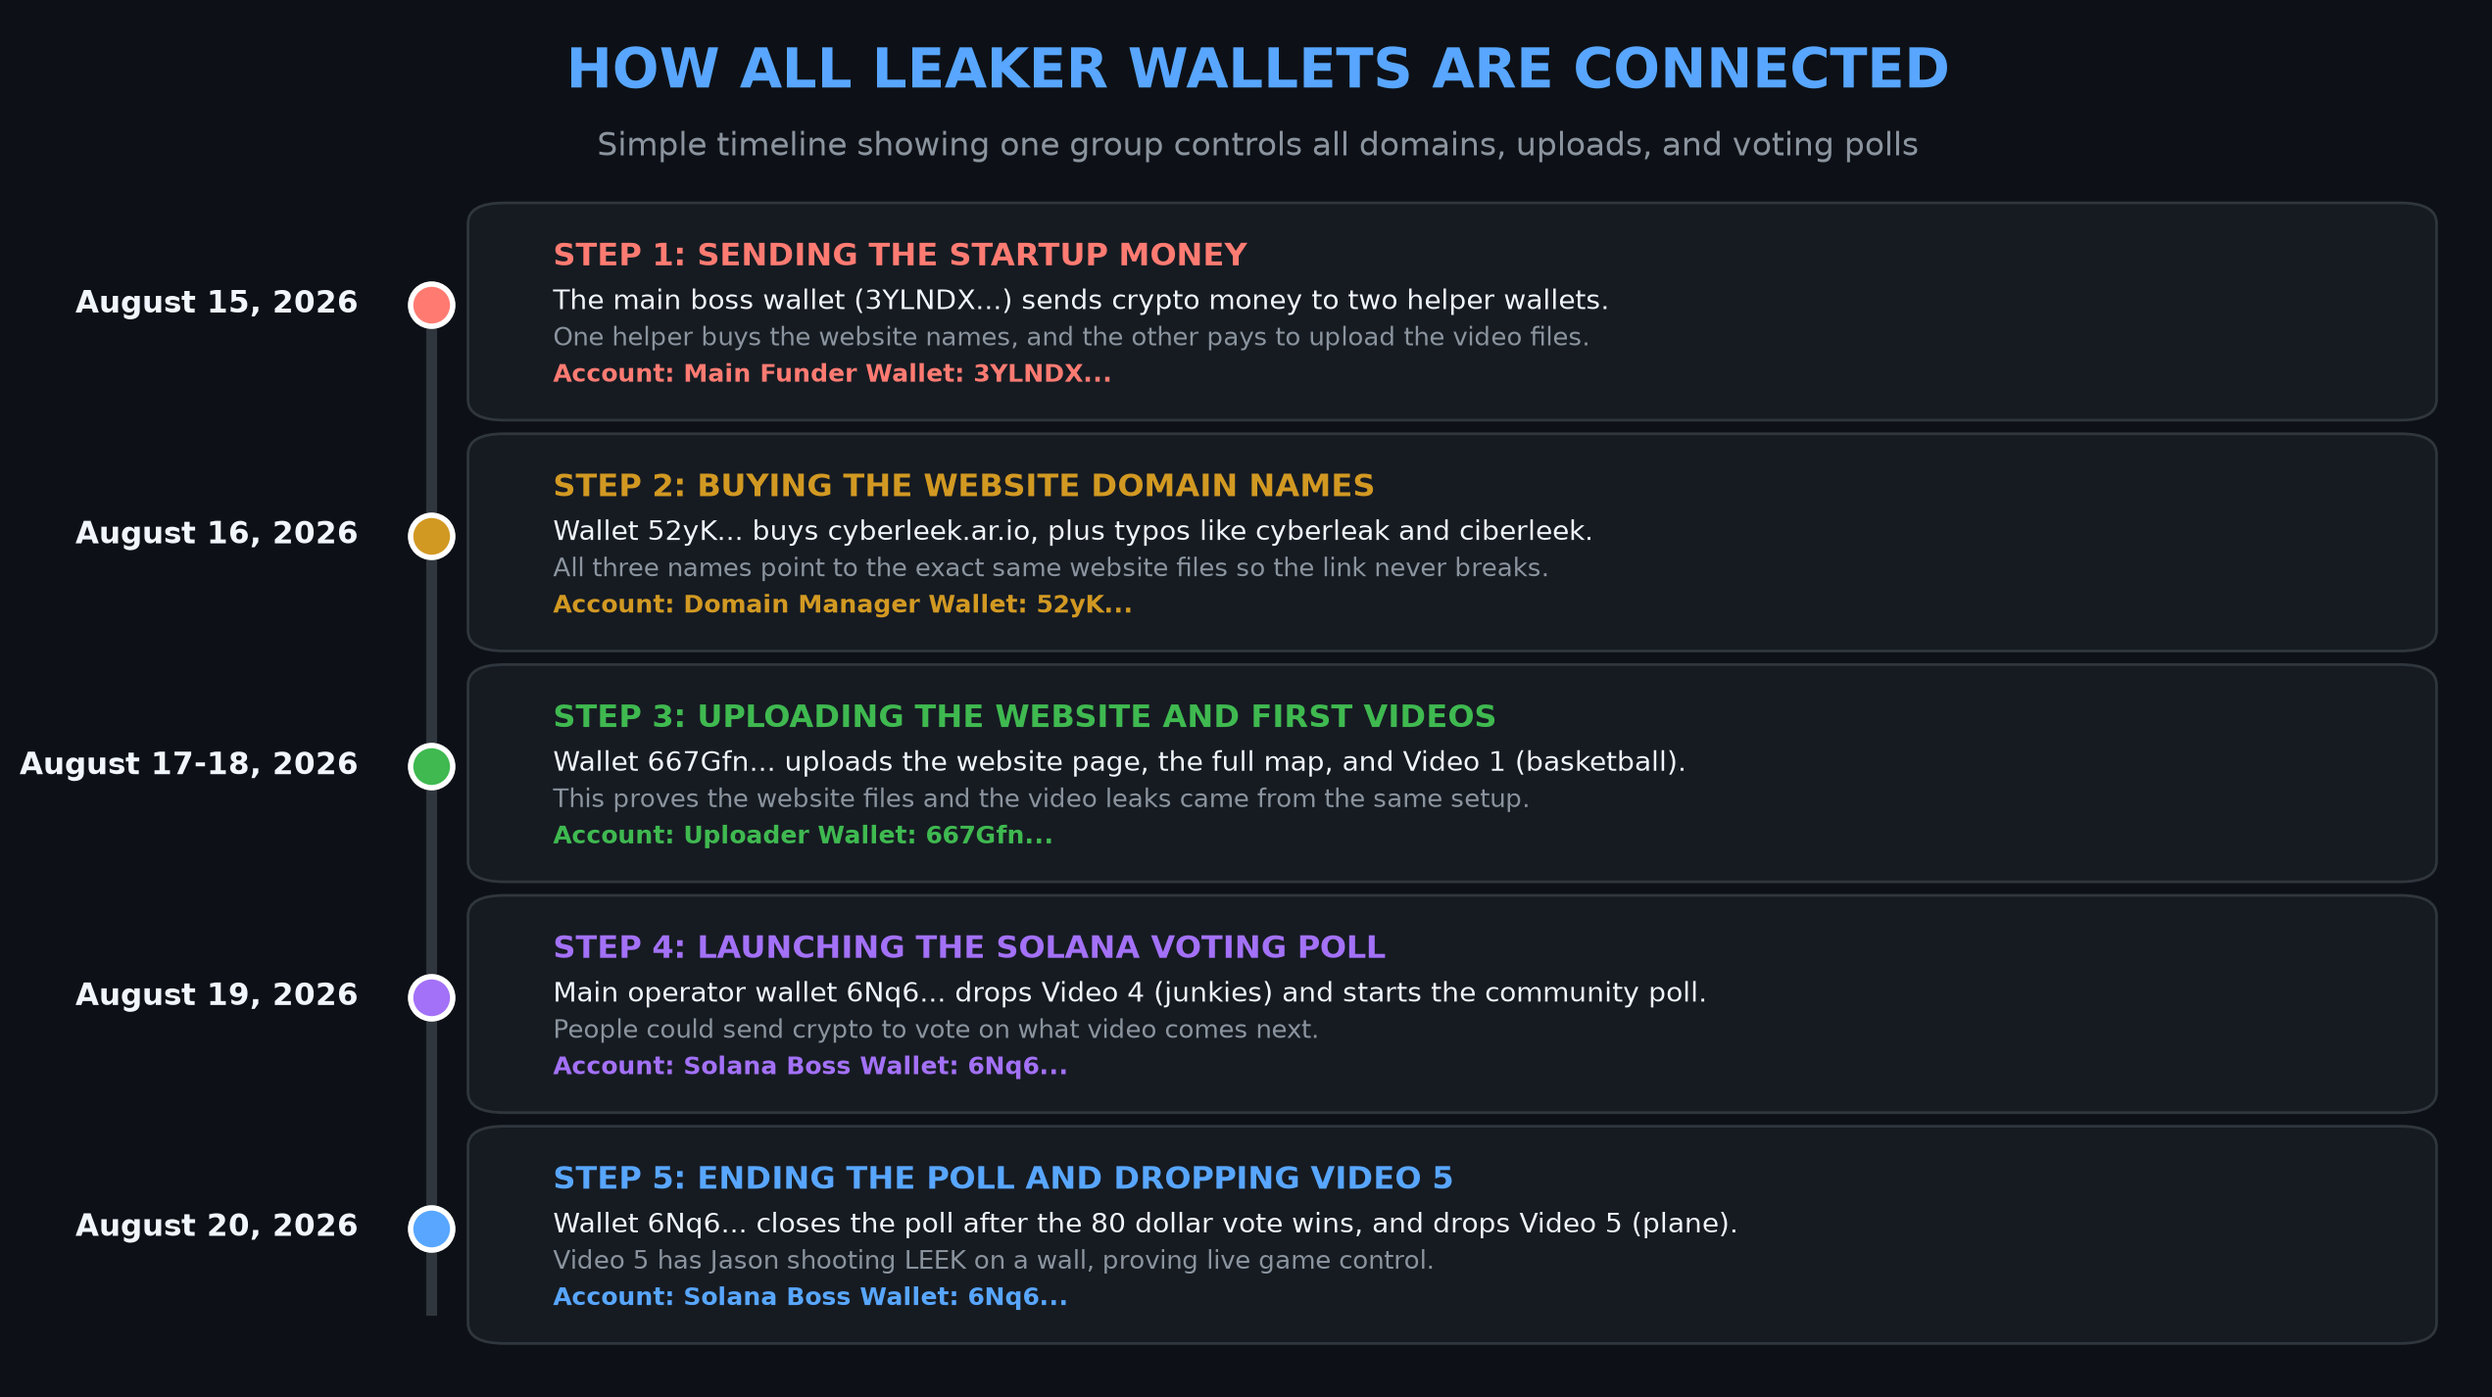
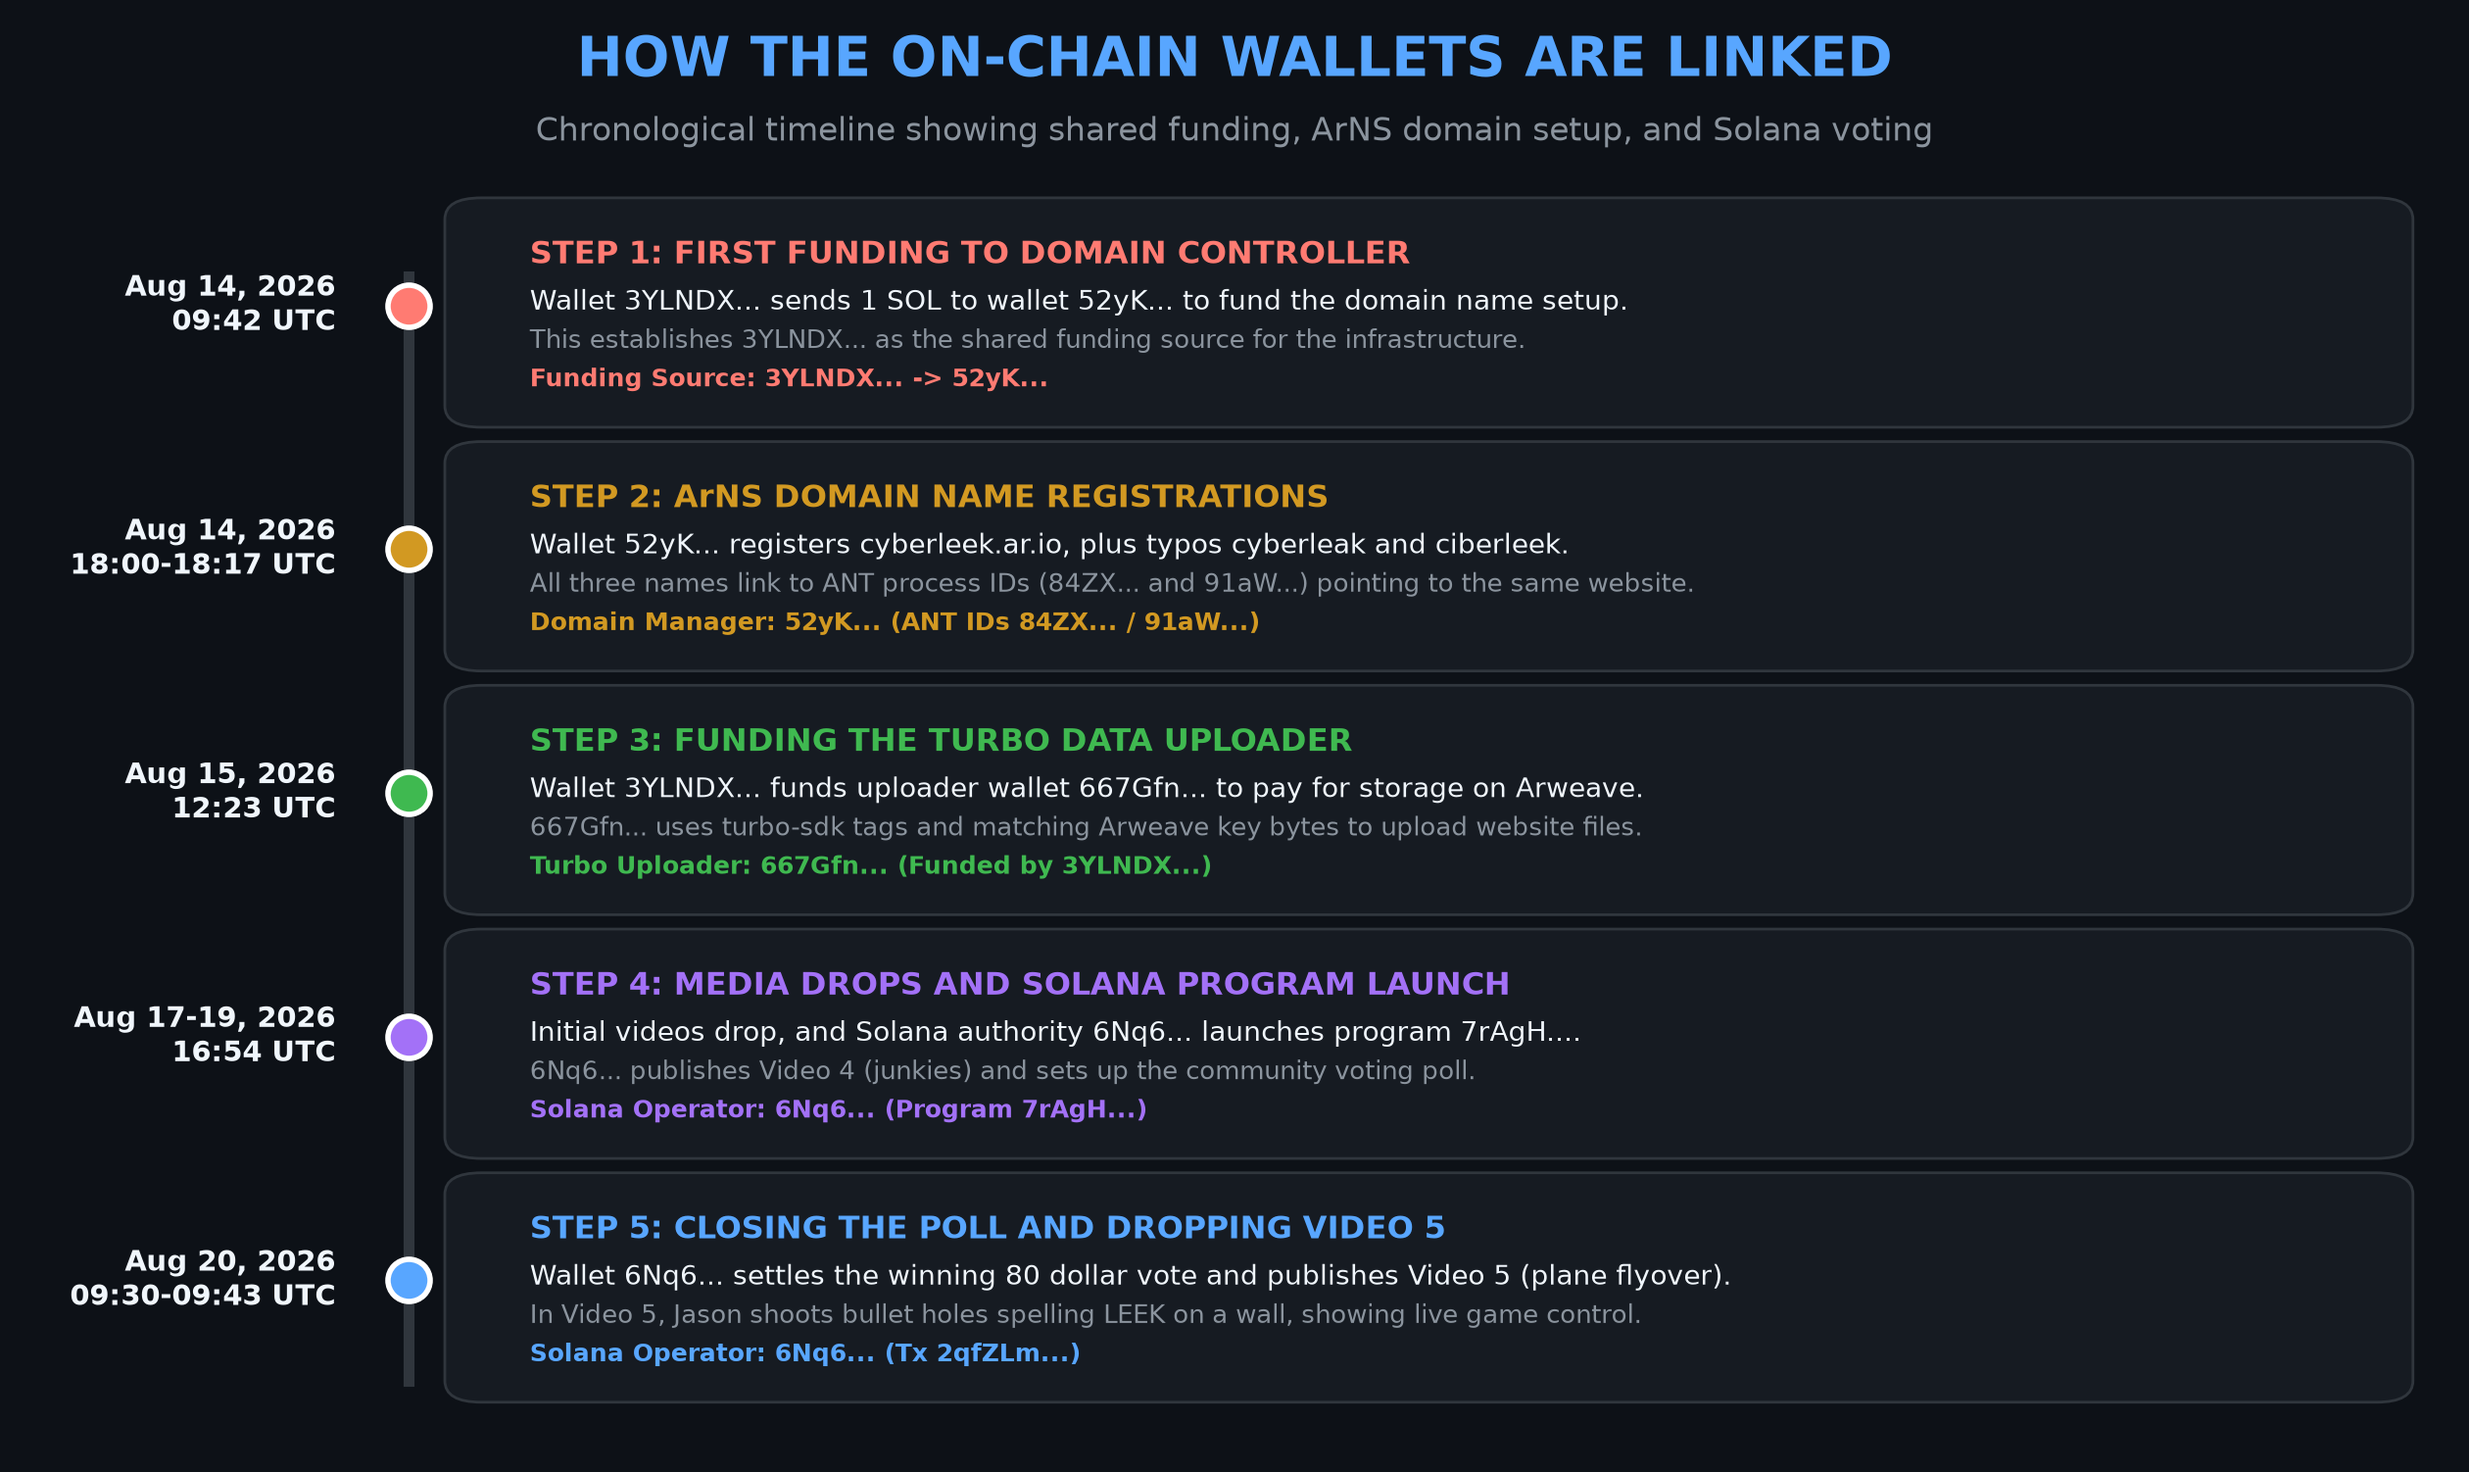
Update on-chain control timeline and section 8.12 with whitemustache0004 corrections

diff --git a/README.md b/README.md
@@ -1350,24 +1350,24 @@ Community records prove Cyberleek was **actively participating in data breach an
 <a id="onchain-control-architecture"></a>
 ### 8.12. On-Chain Control Architecture: ArNS Domains, Funding Wallets & Solana Master Operator Key
 
-*(Research credit: Community researcher whitemustache0004 and on-chain verification)*
+*(Research credit: Community researcher whitemustache0004 and blockchain verification)*
 
 <div align="center">
 
 <img src="assets/onchain_control_cluster_timeline.png" alt="CyberLeek On-Chain Control Cluster Timeline" width="100%" />
 
-*Visual timeline showing how one single group set up the funding, domain names, file uploads, and voting polls.*
+*Visual timeline showing the shared funding origin, domain setups, file uploads, and Solana voting polls.*
 
 </div>
 
 ```mermaid
 flowchart TD
-    Fund["Master Funding Wallet<br><b>3YLNDX...</b>"] -->|"Initial AR & Turbo Credits"| ArNS["ArNS Domain Controller<br><b>52yK...</b>"]
-    Fund -->|"Upload Fees & Turbo Balance"| Uploader["Turbo Data Uploader<br><b>667Gfn...</b>"]
+    Fund["Shared Funding Origin<br><b>3YLNDX...</b>"] -->|"1 SOL Funding (Aug 14, 09:42 UTC)"| ArNS["ArNS Domain Controller<br><b>52yK...</b>"]
+    Fund -->|"Upload Funding (Aug 15, 12:23 UTC)"| Uploader["Turbo Data Uploader<br><b>667Gfn...</b>"]
     
-    ArNS -->|"Controls Record"| ANT1["ANT: cyberleek<br><code>84ZX...</code>"]
-    ArNS -->|"Controls Record"| ANT2["ANT: cyberleak<br><code>91aW...</code>"]
-    ArNS -->|"Controls Record"| ANT3["ANT: ciberleek<br><code>2MWe...</code>"]
+    ArNS -->|"Controls Record"| ANT1["ANT Process ID: cyberleek<br><code>84ZX...</code>"]
+    ArNS -->|"Controls Record"| ANT2["ANT Process ID: cyberleak<br><code>91aW...</code>"]
+    ArNS -->|"Controls Record"| ANT3["ANT Process ID: ciberleek<br><code>2MWe...</code>"]
     
     Uploader -->|"Uploads & Bundles"| Manifest["Arweave Manifest TX<br><code>TTZwYqvCeMCRkDkesu336Pyff26WU-BOvqKmD7zoxrQ</code>"]
     ANT1 -->|"Points to"| Manifest
@@ -1380,17 +1380,17 @@ flowchart TD
     SolAuth -->|"Initializes Voting Accounts"| SolToken["Token Voting Wallets<br><code>8MAye9...</code>"]
 ```
 
-Community researcher whitemustache0004 looked into the blockchain records and found the real backend control system behind the CyberLeek website, decentralized domains, and Solana voting polls.
+Community researcher whitemustache0004 investigated the on-chain records and established a clear operational cluster connecting the website domains, file storage, and Solana voting program.
 
-#### Simple Timeline of the On-Chain Wallets:
+#### Accurate Timeline of the On-Chain Control Cluster:
 
-| Date | Step | What Happened | Wallets Involved |
+| Date & Time (UTC) | Step | What Happened | Wallets Involved |
 | :--- | :--- | :--- | :--- |
-| **Aug 15, 2026** | **Step 1: Startup Money** | The main boss wallet sends crypto money to two helper wallets. One wallet buys domain names, and the other pays to upload the files. | `3YLNDX...` sends funds to `52yK...` and `667Gfn...` |
-| **Aug 16, 2026** | **Step 2: Buying Domains** | Wallet `52yK...` buys `cyberleek.ar.io`, plus typo backup names like `cyberleak` and `ciberleek`. All three point to the same files. | `52yK...` controls smart contracts `84ZX...` and `91aW...` |
-| **Aug 17–18, 2026** | **Step 3: Uploading Files** | Wallet `667Gfn...` uploads the website code, the full map, and Video 1 (basketball). | `667Gfn...` and `7gFAE...` upload manifest `TTZwY...` |
-| **Aug 19, 2026** | **Step 4: Solana Poll** | Main operator wallet `6Nq6...` publishes Video 4 (junkies) and starts the community voting poll. | `6Nq6...` runs Solana program `7rAgH...` |
-| **Aug 20, 2026** | **Step 5: Finishing Poll & Dropping Video 5** | Wallet `6Nq6...` closes the poll after the 80 dollar vote wins, and drops Video 5 (plane flyover with LEEK bullet proof). | `6Nq6...` publishes transaction `2qfZLm...` |
+| **Aug 14, 2026 — 09:42** | **Step 1: First Funding** | Wallet `3YLNDX...` sends 1 SOL to wallet `52yK...` to fund the domain name setup. | `3YLNDX...` funds `52yK...` |
+| **Aug 14, 2026 — 18:00–18:17** | **Step 2: ArNS Registrations** | Wallet `52yK...` registers `cyberleek.ar.io`, plus typo backup names `cyberleak` and `ciberleek`. All three connect to ANT process IDs pointing to the same website manifest. | `52yK...` sets up ANT IDs `84ZX...` and `91aW...` |
+| **Aug 15, 2026 — 12:23** | **Step 3: Uploader Funding** | Wallet `3YLNDX...` funds uploader wallet `667Gfn...`. Uploader `667Gfn...` matches Arweave key bytes and uses turbo-sdk tags to upload website files. | `3YLNDX...` funds `667Gfn...` |
+| **Aug 17–19, 2026 — 16:54** | **Step 4: Media Drops & Solana Setup** | Early videos drop, and Solana master authority `6Nq6...` publishes Video 4 (junkies) and launches the community voting poll. | `6Nq6...` runs Solana program `7rAgH...` |
+| **Aug 20, 2026 — 09:30–09:43** | **Step 5: Closing Poll & Dropping Video 5** | Authority `6Nq6...` settles the winning 80 dollar vote and publishes Video 5 (plane flyover with LEEK bullet proof). | `6Nq6...` publishes transaction `2qfZLm...` |
 
 <a id="arns-domain-network"></a>
 #### 8.12.1. The ArNS Name Network (`cyberleek`, `cyberleak`, `ciberleek`)
@@ -1398,21 +1398,21 @@ Community researcher whitemustache0004 looked into the blockchain records and fo
   * **Manifest ID**: `TTZwYqvCeMCRkDkesu336Pyff26WU-BOvqKmD7zoxrQ`
   * **HTML File ID**: `Y_lswXhMED7uFgU-iabGqoYIGUCcSJKw68wwpQ9qGVw`
   * **Uploader Wallet**: `7gFAEaOIEHNhx2BqiVtpCgF_7HUePnN8E2aejRR6vTE`
-* **Smart Contracts**:
-  * `cyberleak.ar.io` is tied to contract `84ZXH1E2QqDXes4idD9fty93qFh3NM3uamx4ZmCVyDiE`
-  * `ciberleek.ar.io` is tied to contract `91aW9R2sHsjCPUdyu5TJUBFgKDdqedZGYAAkXqq9Qp8X`
-* **Why This Matters**: This proves the leakers planned ahead by buying backup misspellings of their website so their portal would stay online if any single link went down.
+* **ANT Process IDs**:
+  * `cyberleak.ar.io` is tied to ANT Process ID `84ZXH1E2QqDXes4idD9fty93qFh3NM3uamx4ZmCVyDiE`
+  * `ciberleek.ar.io` is tied to ANT Process ID `91aW9R2sHsjCPUdyu5TJUBFgKDdqedZGYAAkXqq9Qp8X`
+* **Why This Matters**: This shows the leaker group planned ahead by buying backup misspellings of their website so their portal would stay online if any single link went down.
 
 <a id="arweave-wallet-pipeline"></a>
-#### 8.12.2. The 3-Tier Arweave Wallet Pipeline (`3YLNDX...` / `52yK...` / `667Gfn...`)
+#### 8.12.2. The 3-Tier Wallet Pipeline (`3YLNDX...` / `52yK...` / `667Gfn...`)
 Blockchain history shows how duties were split between 3 wallets:
-1. **`3YLNDX...` (Main Money Source)**: The central wallet that provided the initial funding for the entire setup.
-2. **`52yK...` (Domain Manager)**: Funded by `3YLNDX...`, this key bought and controls the domain names.
-3. **`667Gfn...` (File Uploader)**: Also funded by `3YLNDX...`, this key paid for data storage and uploaded the website and leak files.
+1. **`3YLNDX...` (Shared Funding Source)**: The central wallet that provided the initial funding for both the domain setup and the uploader key.
+2. **`52yK...` (Domain Manager)**: Received 1 SOL from `3YLNDX...` and registered the ArNS names across ANT process IDs.
+3. **`667Gfn...` (Turbo Data Uploader)**: Funded by `3YLNDX...`, this key paid for data storage and uploaded the website and leak files using turbo-sdk tags.
 
 <a id="solana-master-operator"></a>
 #### 8.12.3. Solana Master Operator Key (`6Nq6...`)
-Checking all 50 transactions signed by authority **`6Nq6KAzFKFCKDXYg1kqs23EuBBEWoWAgmBQAQtq4FaF3`** confirms it is the central boss key for the whole platform:
+Checking all 50 transactions signed by authority **`6Nq6KAzFKFCKDXYg1kqs23EuBBEWoWAgmBQAQtq4FaF3`** confirms it is the central operator key for the whole platform:
 * **Publishing Leaks**: It signed the transactions for Video 3 (`taser.mp4`), Video 4 (`junkies.mp4`), and Video 5 (`plane.mp4`).
 * **Closing the Poll**: It signed the final settlement transactions on August 20, 2026 to finish the community poll.
 * **Managing Crypto Accounts**: It set up the deposit wallets and token pools for the voting system.
